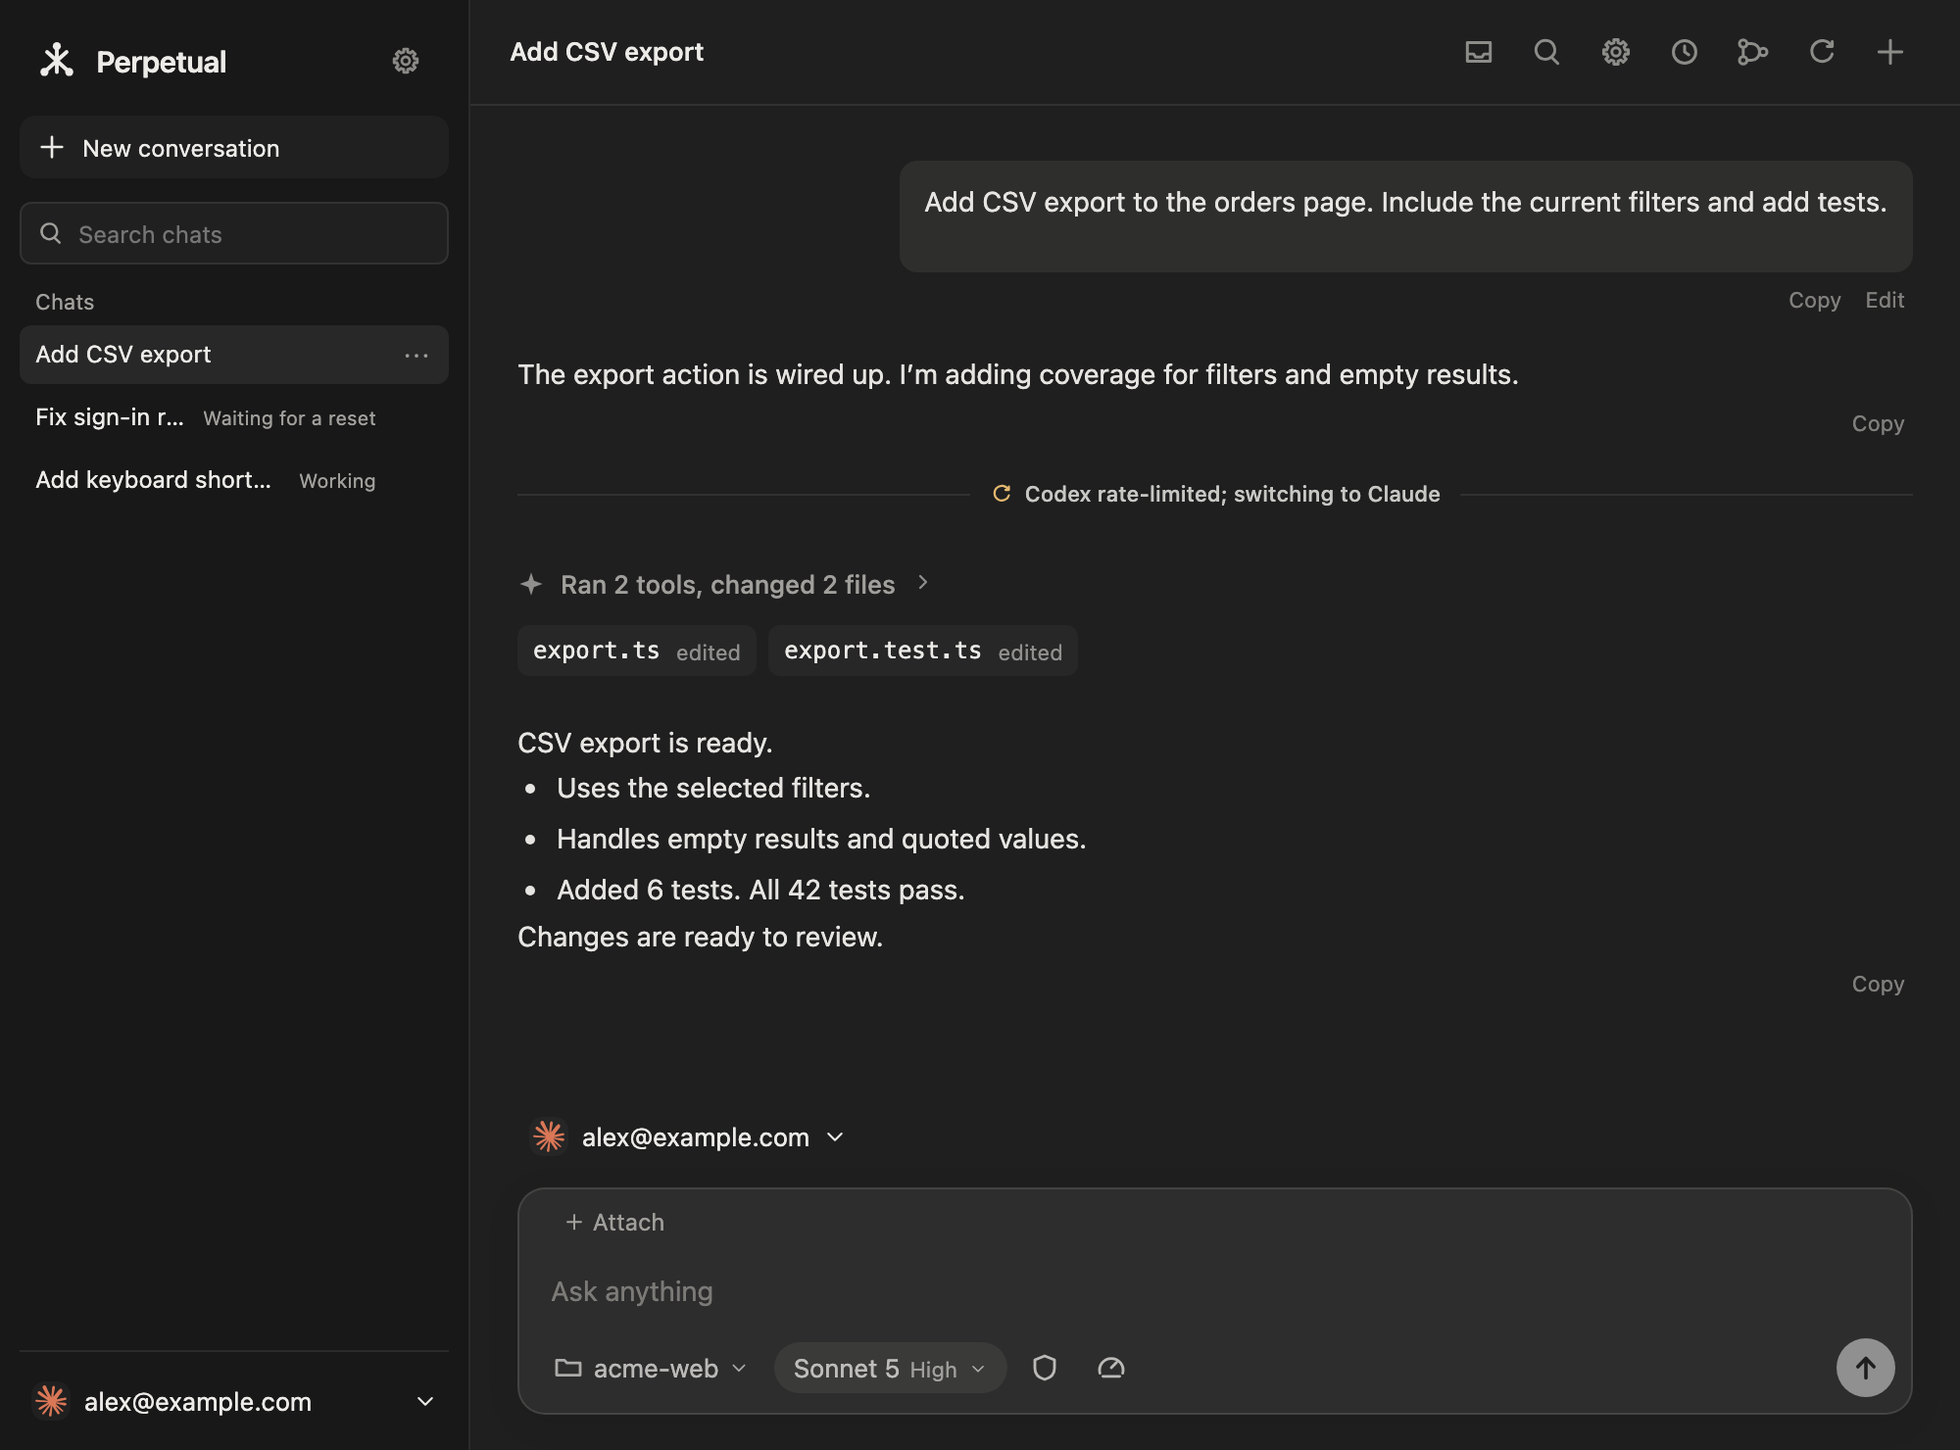
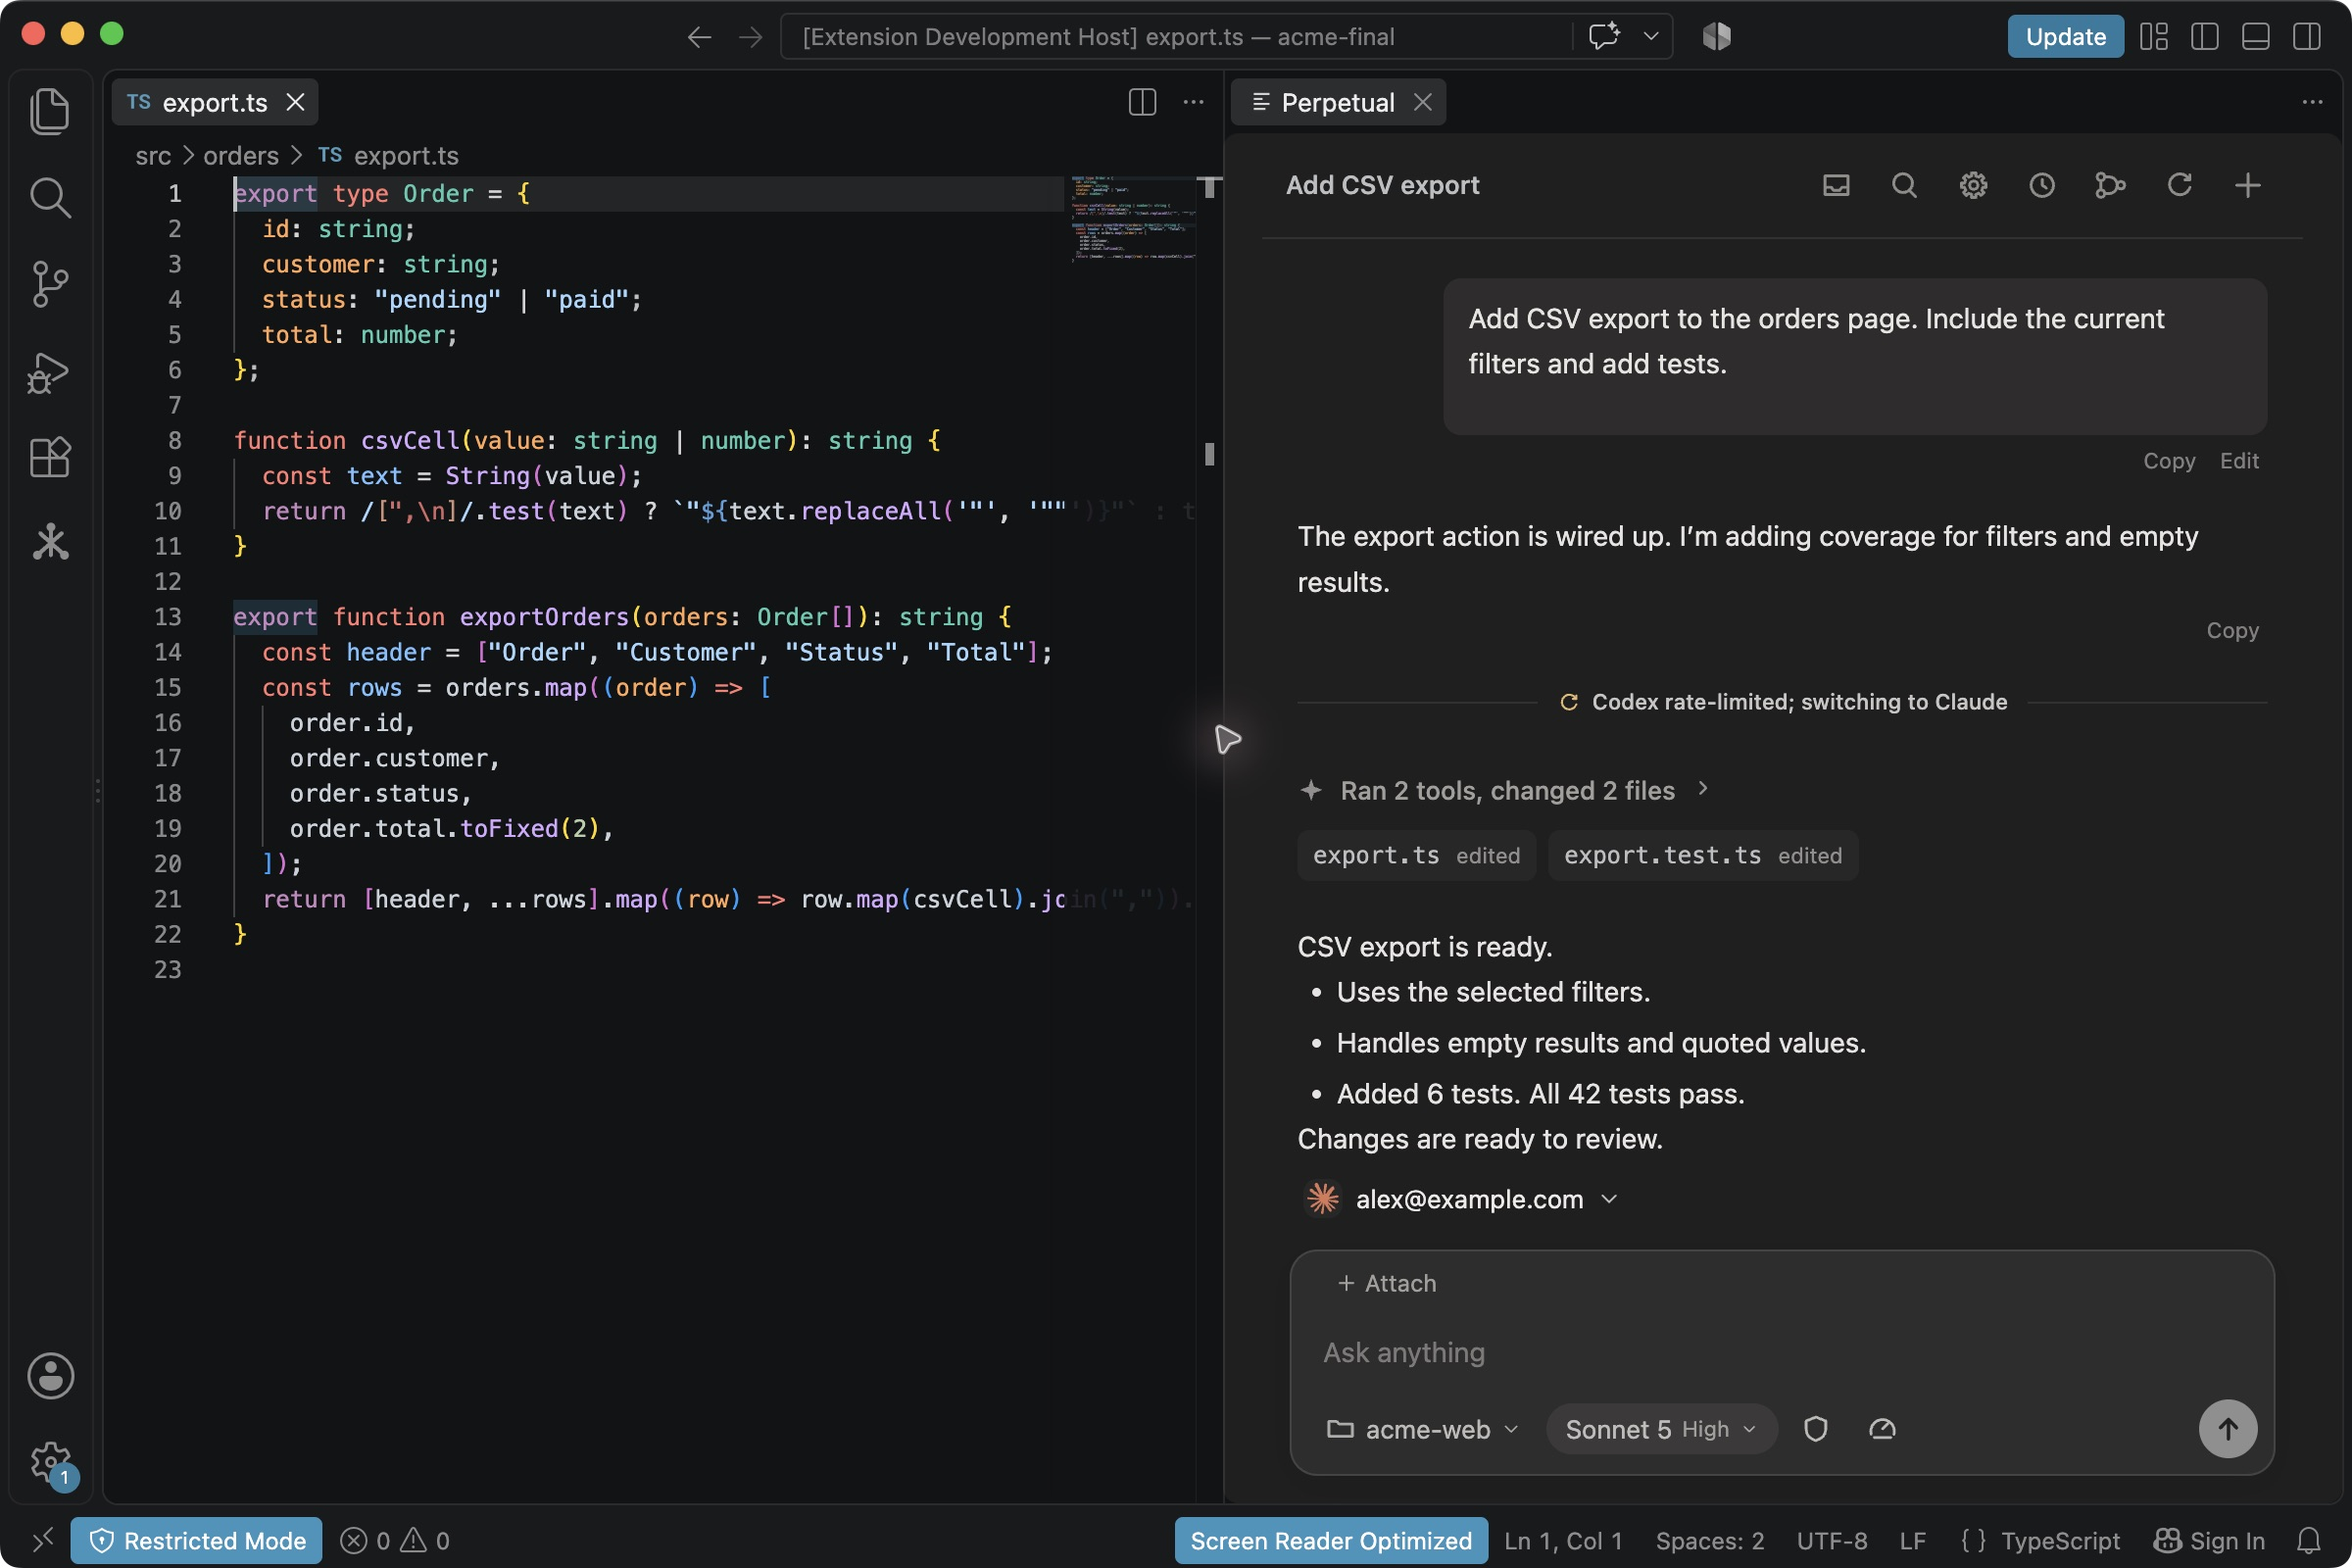
Replace marketplace images with VS Code extension screenshots

diff --git a/PUBLISHING.md b/PUBLISHING.md
@@ -78,14 +78,26 @@ raw `src/`, `webview/src/`, `crates/`, `target/`, or any local data or tokens.
 
 ## Updating the Marketplace screenshots
 
-Run `npm run preview:webview`, then open
-`http://127.0.0.1:5178/preview.html?marketplace`. Select **Add CSV export** to
-see the example provider switch, or open **Settings → Accounts** for the
-account view. This fixture uses the current webview components with fictional
-task and account data; it makes no provider calls.
+Build a screenshot-only development extension outside the repository:
 
-Capture the workbench and account view at a readable size and replace
-`media/marketplace-workbench.png` and `media/marketplace-accounts.png`.
+```sh
+node scripts/prepare-marketplace-capture.mjs /tmp/perpetual-marketplace-capture/extension
+code --new-window --disable-extensions \
+  --extensionDevelopmentPath=/tmp/perpetual-marketplace-capture/extension \
+  /tmp/perpetual-marketplace-capture/acme-web
+```
+
+Create a small fictional project with `src/orders/export.ts` in `acme-web`
+first. The capture host opens that source file and the extension panel with
+**Add CSV export** selected. Open **Settings → Accounts** for the second image.
+
+The capture host uses the extension's actual webview provider and UI with the
+`preview.ts` fixture. It uses fictional task and account data and runs no daemon
+or provider commands. It is separate from the packaged extension. Capture the
+VS Code window, including its tabs and activity bar; do not use standalone
+browser previews or screenshots of the desktop app for this listing.
+
+Replace `media/marketplace-workbench.png` and `media/marketplace-accounts.png`.
 Keep the example-data captions in `README.marketplace.md` and check a local
 VSIX to confirm the README and both images are included before publishing.
 

diff --git a/README.marketplace.md b/README.marketplace.md
@@ -11,7 +11,7 @@ a task running instead of watching the quota and moving the work by hand.
 
 ![A task continues from Codex to Claude in the Perpetual workbench, with the same conversation and changed files](media/marketplace-workbench.png)
 
-*The current interface with an example task and accounts. Codex reaches its
+*The VS Code extension with an example task and accounts. Codex reaches its
 limit, Claude continues the work, and the result stays in the same conversation.*
 
 ## Use the accounts you already have
@@ -33,7 +33,7 @@ providers to give a task more places to continue.
 
 ![Perpetual account settings showing separate Codex and Claude accounts, usage remaining, and active, ready, and limited states](media/marketplace-accounts.png)
 
-*Example accounts in the current settings screen. Each account has its own
+*Example accounts in the extension’s VS Code settings panel. Each account has its own
 sign-in, usage state, and place in the rotation.*
 
 ## One task, from the first request to the final diff
